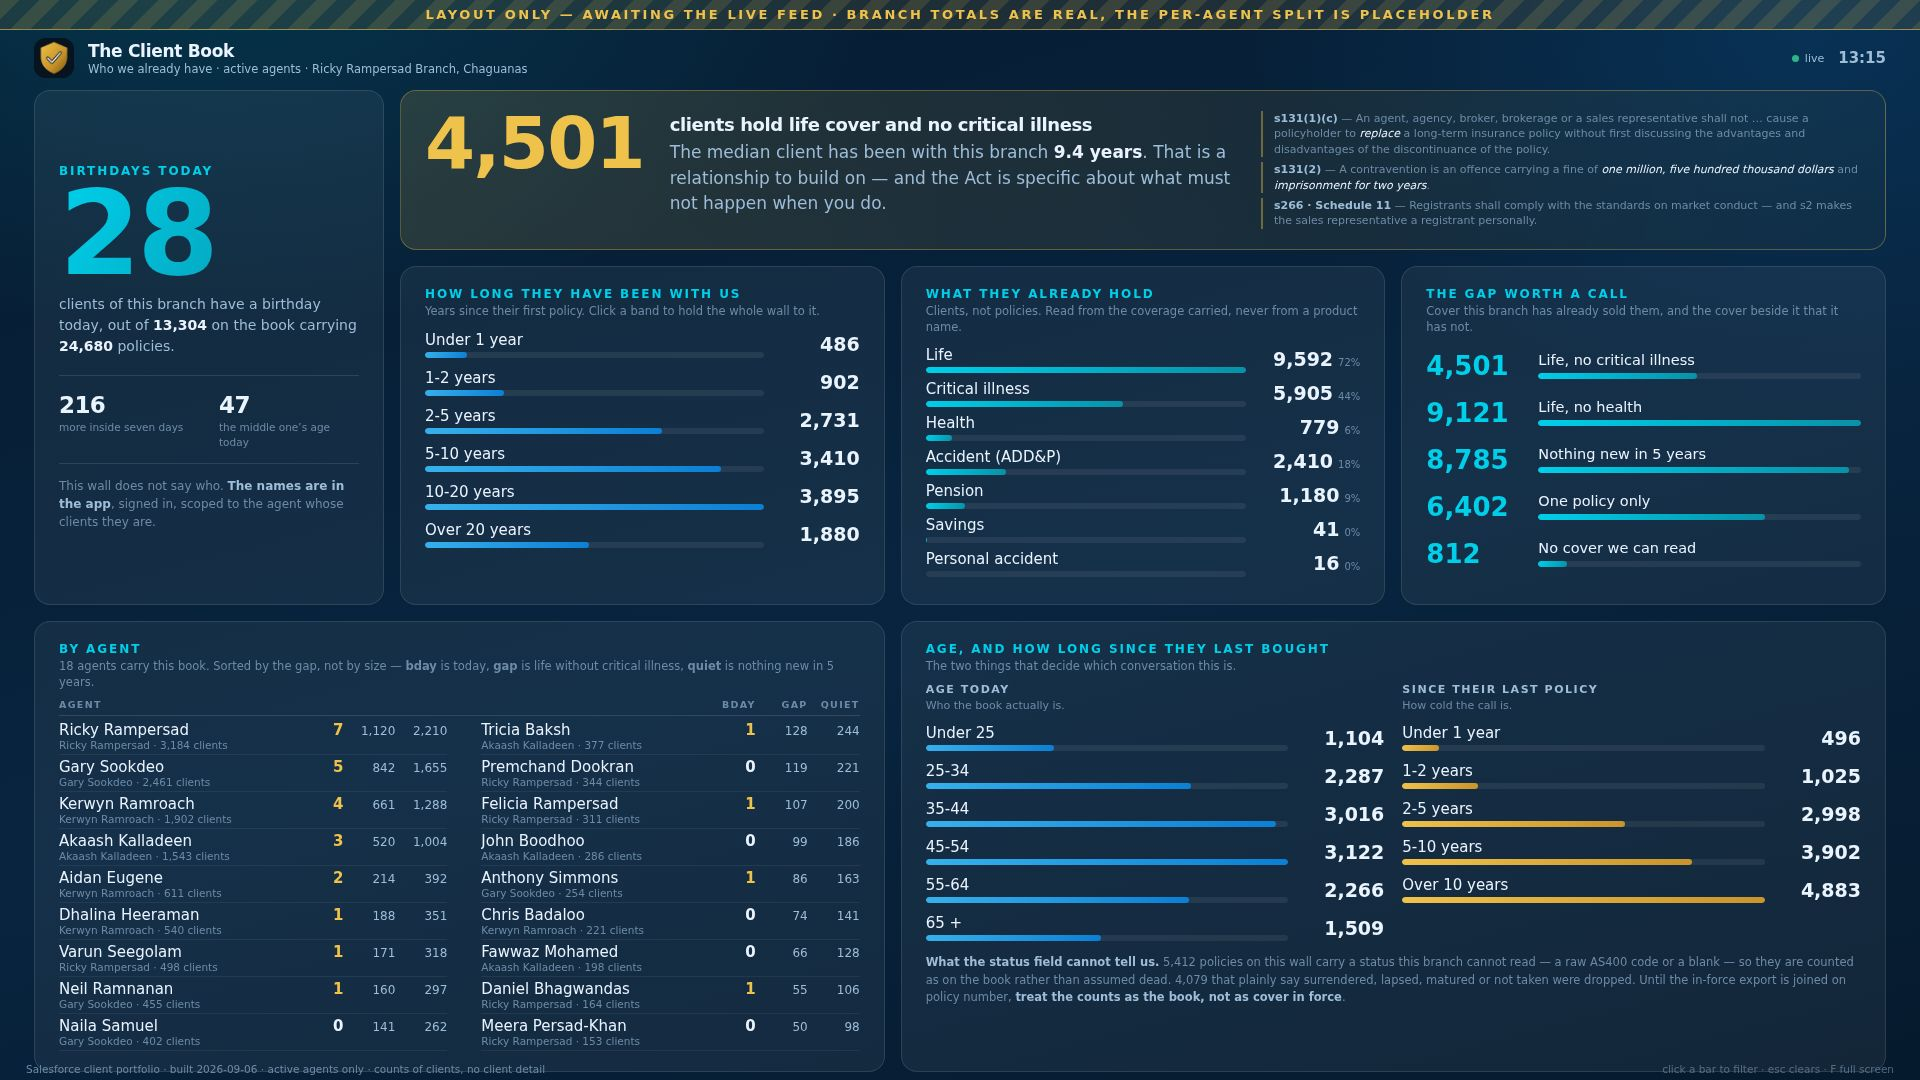
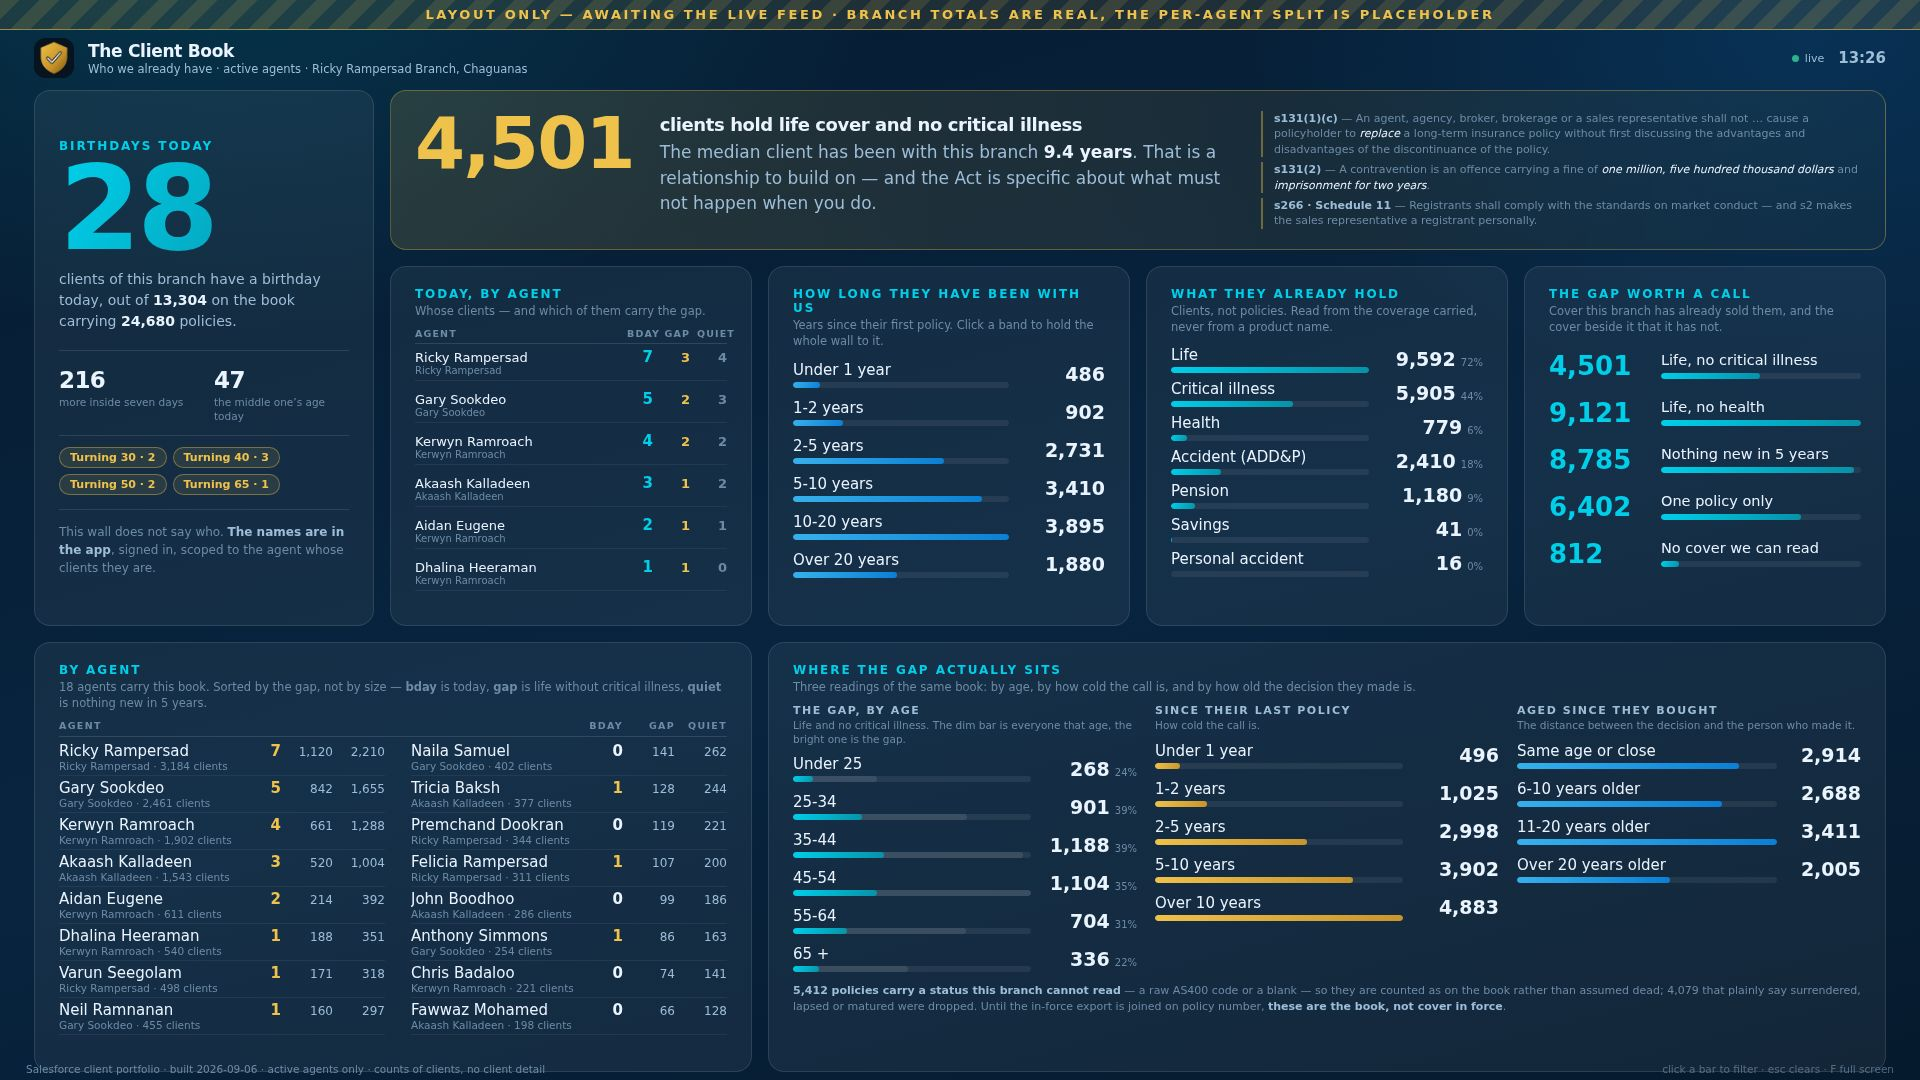
Put the birthdays at the top, by client and by agent, and go deeper
Confirmed: it is the birth date, and the wall now leads with it.

BY CLIENT AND BY AGENT, ON THE SAME ROW. The hero is how many clients have a
birthday today, with the milestone ages beside it — turning 30, 40, 50, 65,
which are advice triggers rather than greetings. The age comes from the birth
year, not Current_Age__c, which is ambiguous on the day itself. Next to it a new
panel gives the same thing by agent: whose clients, how many of those already
carry the life-without-critical-illness gap, and how many have bought nothing in
five years. A birthday on its own is a greeting. A birthday beside a gap is a
conversation, and that is why the three numbers sit on one row.

THREE NEW READINGS OF THE SAME BOOK, in the bottom right.

The gap, by age — where the 4,501 actually sit. The dim bar is everyone in that
age band and the bright one is the gap, because 900 out of 3,000 and 900 out of
1,100 are not the same finding and a bare count cannot tell them apart.

Since their last policy — how cold the call is.

Aged since they bought — the distance between the decision and the person who
made it, from Current_Age__c minus the Issue_Age__c on their FIRST policy. This
is the least obvious of the three and the most useful: a client who took cover
at twenty eight and is fifty five today is carrying a twenty seven year old
decision, and nothing else in the portfolio says so. Issue_Age__c is on 76% of
rows, which is what makes it possible. The age has to travel with the first
[…]

diff --git a/intelligence/wall/book.html b/intelligence/wall/book.html
@@ -68,8 +68,12 @@
   #chip span{width:19px;height:19px;border-radius:50%;background:rgba(255,255,255,.16);
     display:grid;place-items:center;font-size:12px;line-height:1}
 
-  main{display:grid;grid-template-columns:300px 1fr 1fr 1fr;
-    grid-template-rows:auto 1fr auto;gap:13px;padding:0 26px 20px;height:calc(100vh - 66px)}
+  /* Five columns, not four. The fourth panel on row two is today's birthdays
+     broken out by agent, and that is the one somebody acts on before lunch —
+     it does not belong folded into a footnote at the bottom of the screen. */
+  main{display:grid;grid-template-columns:290px 1fr 1fr 1fr 1fr;
+    grid-template-rows:auto minmax(330px,1fr) minmax(0,430px);
+    gap:13px;padding:0 26px 20px;height:calc(100vh - 66px)}
   .card{background:var(--card);border:1px solid var(--line);border-radius:var(--r);
     padding:16px 18px;min-height:0;display:flex;flex-direction:column}
   .card h3{margin:0 0 2px;font:700 12px var(--font-b);letter-spacing:.16em;
@@ -87,7 +91,7 @@
   .hero .split .v{font-family:var(--font-d);font-weight:800;font-size:23px;letter-spacing:-.6px}
   .hero .split .k{font-size:10.5px;color:var(--faint);margin-top:2px;line-height:1.35}
 
-  .law{grid-column:2/5;flex-direction:row;align-items:center;gap:26px;
+  .law{grid-column:2/6;flex-direction:row;align-items:center;gap:26px;
     background:linear-gradient(100deg,rgba(239,194,75,.14),rgba(239,194,75,.03));
     border-color:rgba(239,194,75,.32)}
   /* Kept deliberately short. It sits in the row above the three bar panels and
@@ -128,6 +132,9 @@
      the value column needs more room than the other three walls give it —
      "9,592 72%" was clipping to "9,592 7:". */
   #rCover .row{grid-template-columns:1fr 104px}
+  /* "1,188" and its share on ONE line. Wrapped, the suffix took every row in
+     this panel from 33px to 50 and the card overflowed by exactly that. */
+  #rGapAge .row{grid-template-columns:1fr 96px}
   #rTen .row,#rAge .row,#rLast .row{grid-template-columns:1fr 86px}
   /* Seven kinds of cover against six tenure bands, in a box sized for six:
      measured at 261px of rows in 240px of panel. The two smallest rows are the
@@ -164,7 +171,7 @@
     text-transform:uppercase;color:var(--dim)}
   .two .sub{font-size:11px;color:var(--faint);margin:0 0 8px;line-height:1.4}
 
-  .hist{grid-column:3/5}
+  .hist{grid-column:3/6}
   .sgrid{display:grid;grid-template-columns:repeat(3,1fr);gap:14px;margin-bottom:12px}
   .sgrid .v{font-family:var(--font-d);font-weight:800;font-size:30px;letter-spacing:-1px;line-height:1}
   .sgrid .k{font-size:10.5px;color:var(--faint);margin-top:4px;line-height:1.35}
@@ -176,7 +183,7 @@
   .hint{position:fixed;right:26px;bottom:5px;font-size:10.5px;color:var(--faint);opacity:.7}
 
   @media (min-width:1700px){
-    main{grid-template-columns:350px 1fr 1fr 1fr;gap:16px;padding:0 34px 24px}
+    main{grid-template-columns:340px 1fr 1fr 1fr 1fr;gap:16px;padding:0 34px 24px}
     .hero .big{font-size:118px} .card{padding:20px 24px}
     .row .lbl{font-size:15px} .row .val{font-size:19px} .arow{font-size:15px}
     .law .n{font-size:72px} .law .txt{font-size:17px} .sgrid .v{font-size:38px}
@@ -186,6 +193,7 @@
     body{overflow:auto} main{grid-template-columns:1fr 1fr;height:auto}
     .hero{grid-row:auto} .law{grid-column:1/3;flex-wrap:wrap}
     .agents,.hist{grid-column:1/3} .alist{grid-auto-flow:row;grid-template-rows:none}
+    .three{grid-template-columns:1fr}
   }
   /* Four columns here, not three: this wall's agent row carries a birthday
      count, a gap count and a quiet count, and unlabelled numbers in a row are
@@ -199,7 +207,47 @@
   /* Two columns of nine, not three of six. At three the name column was 150px
      and every agent past "Premchand" truncated — a wall that abbreviates the
      names on it is not naming anybody. */
-  .alist{grid-template-rows:repeat(9,auto);gap:0 34px}
+  /* Eight rows a column, not nine. The bottom row's card lost 90px when the
+     three-up went in beside it, and the ninth name was being cut in half —
+     which is the one thing a wall that names people must never do. */
+  .alist{grid-template-rows:repeat(8,auto);gap:0 26px}
+
+  .three{display:grid;grid-template-columns:1fr 1fr 1fr;gap:18px;flex:1;min-height:0}
+  .three > div{display:flex;flex-direction:column;min-height:0}
+  .three h4{margin:0 0 2px;font:700 11px var(--font-b);letter-spacing:.14em;
+    text-transform:uppercase;color:var(--dim)}
+  .three .sub{font-size:10.5px;color:var(--faint);margin:0 0 6px;line-height:1.3}
+  .hist .note{margin-top:8px;font-size:11px;line-height:1.45}
+
+  /* TODAY, BY AGENT. Three numbers per row and all three are a reason to pick
+     up the phone: whose client, how many of those already carry the gap, and
+     how many have bought nothing in years. A birthday on its own is a greeting;
+     a birthday next to a gap is a conversation. */
+  .bday .brow{display:grid;grid-template-columns:1fr 26px 30px 30px;align-items:baseline;
+    gap:7px;padding:4px 0;border-bottom:1px solid rgba(255,255,255,.06);font-size:13px}
+  .bday .brow .nm{white-space:nowrap;overflow:hidden;text-overflow:ellipsis}
+  .bday .brow .nm em{font-style:normal;font-size:10px;color:var(--faint);display:block}
+  .bday .brow .v{font-family:var(--font-d);font-weight:700;text-align:right;
+    font-variant-numeric:tabular-nums}
+  .bday .brow .v.n{color:var(--teal);font-size:15px}
+  .bday .brow .v.g{color:var(--gold)}
+  .bday .brow .v.q{color:var(--faint)}
+  .bday .bhead{display:grid;grid-template-columns:1fr 26px 30px 30px;gap:7px;
+    font:700 9.5px var(--font-b);letter-spacing:.12em;text-transform:uppercase;
+    color:var(--faint);padding-bottom:4px;border-bottom:1px solid rgba(255,255,255,.12)}
+  .bday .bhead div+div{text-align:right}
+  .hero .miles{margin-top:12px;padding-top:11px;border-top:1px solid var(--line);
+    display:flex;flex-wrap:wrap;gap:6px}
+  .hero .mile{font:700 11px var(--font-b);color:var(--gold);
+    border:1px solid rgba(239,194,75,.4);background:rgba(239,194,75,.10);
+    border-radius:999px;padding:3px 10px}
+  .hero .miles:empty{display:none}
+  .bday .none{font-size:12px;color:var(--faint);line-height:1.5;margin-top:4px}
+
+  /* a bar with a ghost behind it — the gap against the whole band it sits in */
+  .row .track i.ghost{background:rgba(255,255,255,.10)}
+  .row .track.stack{position:relative}
+  .row .track.stack i.fg{position:absolute;left:0;top:0}
 
   /* THE GAP PANEL IS THE POINT OF THE WALL, so its rows are bigger than the
      others and the count leads rather than trails. Every other panel on every
@@ -242,6 +290,7 @@
       <div><div class="v" id="heroWeek">&mdash;</div><div class="k">more inside seven days</div></div>
       <div><div class="v" id="heroAge">&mdash;</div><div class="k">the middle one’s age today</div></div>
     </div>
+    <div class="miles" id="bMiles"></div>
     <div class="who" id="heroWho"></div>
   </section>
 
@@ -253,6 +302,11 @@
     </div>
     <div class="acts" id="lawActs"></div>
   </section>
+
+  <section class="card bday"><h3>Today, by agent</h3>
+    <p class="cap">Whose clients &mdash; and which of them carry the gap.</p>
+    <div class="bhead"><div>Agent</div><div>Bday</div><div>Gap</div><div>Quiet</div></div>
+    <div class="rows" id="bList"></div></section>
 
   <section class="card"><h3>How long they have been with us</h3>
     <p class="cap">Years since their first policy. Click a band to hold the whole wall to it.</p>
@@ -271,8 +325,9 @@
     <div class="ahead"><div>Agent</div><div>Bday</div><div>Gap</div><div>Quiet</div></div>
     <div class="alist" id="aList"></div></section>
 
-  <section class="card hist"><h3>Age, and how long since they last bought</h3>
-    <p class="cap">The two things that decide which conversation this is.</p>
+  <section class="card hist"><h3>Where the gap actually sits</h3>
+    <p class="cap">Three readings of the same book: by age, by how cold the call is,
+      and by how old the decision they made is.</p>
     <div id="histBody"></div></section>
 </main>
 
@@ -341,6 +396,30 @@ function bars(host,list,dim,tone,pct){
   });
 }
 
+/* A bar drawn inside a ghost of the band it belongs to. A count on its own says
+   how many; a count against its own band says whether that is most of them. */
+function ghosts(host,list){
+  if(!host) return;
+  var max=0; list.forEach(function(x){ if((x.of||x.n)>max) max=x.of||x.n; });
+  host.innerHTML=list.map(function(x){
+    var sel=FILTER&&FILTER.dim==="gapage"&&FILTER.key===x.k;
+    var share=x.of?Math.round(x.n/x.of*100):0;
+    return '<div class="row'+(sel?' sel':'')+(x.n?'':' zero')+'"'
+      + (x.n?' data-dim="gapage" data-key="'+esc(x.k)+'"':'')+'>'
+      + '<div><div class="lbl">'+esc(x.k)+'</div>'
+      + '<div class="track stack"><i class="ghost" style="width:'
+      + (max?(x.of||x.n)/max*100:0).toFixed(1)+'%"></i>'
+      + '<i class="fg teal" style="width:'+(max?x.n/max*100:0).toFixed(1)+'%"></i></div></div>'
+      + '<div class="val">'+n(x.n)+(x.of?'<small>'+share+'%</small>':'')+'</div></div>';
+  }).join("");
+  Array.prototype.forEach.call(host.querySelectorAll(".row[data-dim]"),function(el){
+    el.onclick=function(){
+      if(FILTER&&FILTER.dim===el.dataset.dim&&FILTER.key===el.dataset.key) return clearFilter();
+      FILTER={dim:el.dataset.dim,key:el.dataset.key}; paint();
+    };
+  });
+}
+
 /* s131 is the section that governs this wall, and it is the sharpest one in the
    Act for a branch that is about to go cross-selling: it is not about failing
    to sell, it is about what happens when a sale REPLACES cover the client
@@ -376,7 +455,7 @@ function paint(){
       + 'conversation starts from what they hold.';
     $("#lawActs").innerHTML=ACTS.map(function(a){
       return '<div class="act"><b>'+a[0]+'</b> &mdash; '+a[1]+'</div>'; }).join("");
-    ["#rTen","#rCover","#rGap","#aList"].forEach(function(s){ $(s).innerHTML=""; });
+    ["#rTen","#rCover","#rGap","#aList","#bList","#bMiles"].forEach(function(s){ $(s).innerHTML=""; });
     $("#agentCap").textContent="";
     $("#histBody").innerHTML='<p class="note">Set the Salesforce credentials in '
       + '<b>SalesforceSync.gs</b>, deploy the script, and paste the <b>/exec</b> URL into '
@@ -409,11 +488,28 @@ function paint(){
   $("#lawActs").innerHTML=ACTS.map(function(a){
     return '<div class="act"><b>'+a[0]+'</b> &mdash; '+a[1]+'</div>'; }).join("");
 
+  var BA=(D.birthdays&&D.birthdays.byAgent)||[];
+  /* Six, not nine: the panel is a morning list, and an agent below the sixth
+     line on a screen across the room is not being read anyway. The full column
+     is in the by-agent table underneath. */
+  $("#bList").innerHTML = BA.length ? BA.slice(0,6).map(function(a){
+      return '<div class="brow">'
+        + '<div class="nm">'+esc(a.k)+'<em>'+esc(a.unit||"")+'</em></div>'
+        + '<div class="v n">'+n(a.n)+'</div>'
+        + '<div class="v g">'+n(a.gap)+'</div>'
+        + '<div class="v q">'+n(a.quiet)+'</div></div>'; }).join("")
+    : '<p class="none">Nobody on the branch book has a birthday today. '
+      + n((D.birthdays||{}).week)+' do inside the next seven days.</p>';
+  var MI=(D.birthdays&&D.birthdays.milestones)||[];
+  $("#bMiles").innerHTML = MI.length
+    ? MI.map(function(m){ return '<span class="mile">'+esc(m.k)+' &middot; '+n(m.n)+'</span>'; }).join("")
+    : '';
+
   bars($("#rTen"),   D.tenure||[], "tenure", "accent");
   bars($("#rCover"), D.cover||[],  "cover",  "teal", true);
   bars($("#rGap"),   D.gaps||[],   "gap",    "teal");
 
-  var ag=(D.byAgent||[]).slice(0,18), maxGap=0;
+  var ag=(D.byAgent||[]).slice(0,16), maxGap=0;
   ag.forEach(function(a){ if(a.gap>maxGap) maxGap=a.gap; });
   $("#agentCap").innerHTML=n((D.byAgent||[]).length)+' agents carry this book. '
     + 'Sorted by the gap, not by size — <b>bday</b> is today, <b>gap</b> is life without '
@@ -428,20 +524,26 @@ function paint(){
 
   var Q=D.quality||{};
   $("#histBody").innerHTML=
-      '<div class="two">'
-    + '<div><h4>Age today</h4><p class="sub">Who the book actually is.</p>'
-    +   '<div class="rows" id="rAge"></div></div>'
+      '<div class="three">'
+    + '<div><h4>The gap, by age</h4><p class="sub">Life and no critical illness. The dim '
+    +   'bar is everyone that age, the bright one is the gap.</p>'
+    +   '<div class="rows" id="rGapAge"></div></div>'
     + '<div><h4>Since their last policy</h4><p class="sub">How cold the call is.</p>'
     +   '<div class="rows" id="rLast"></div></div>'
+    + '<div><h4>Aged since they bought</h4>'
+    +   '<p class="sub">The distance between the decision and the person who made it.</p>'
+    +   '<div class="rows" id="rAged"></div></div>'
     + '</div>'
-    + '<p class="note"><b>What the status field cannot tell us.</b> '
-    + n(Q.unknownStatus)+' policies on this wall carry a status this branch cannot read '
-    + '— a raw AS400 code or a blank — so they are counted as on the book rather '
-    + 'than assumed dead. '+n(Q.deadDropped)+' that plainly say surrendered, lapsed, matured '
-    + 'or not taken were dropped. Until the in-force export is joined on policy number, '
-    + '<b>treat the counts as the book, not as cover in force</b>.</p>';
-  bars($("#rAge"),  D.ages||[],    "age",  "accent");
-  bars($("#rLast"), D.lastBuy||[], "last", "gold");
+    + '<p class="note"><b>'+n(Q.unknownStatus)+' policies carry a status this branch '
+    + 'cannot read</b> — a raw AS400 code or a blank — so they are counted as on the book '
+    + 'rather than assumed dead; '+n(Q.deadDropped)+' that plainly say surrendered, lapsed '
+    + 'or matured were dropped. Until the in-force export is joined on policy number, '
+    + '<b>these are the book, not cover in force</b>.</p>';
+  /* The gap bar carries a ghost of its whole age band behind it, because 900 in
+     a band of 3,000 and 900 in a band of 1,100 are not the same finding. */
+  ghosts($("#rGapAge"), D.gapByAge||[]);
+  bars($("#rLast"), D.lastBuy||[], "last",  "gold");
+  bars($("#rAged"), D.aged||[],    "aged",  "accent");
 }
 
 function tick(){ $("#clock").textContent=new Date().toLocaleTimeString("en-GB",

diff --git a/INTELLIGENCE-SETUP.md b/INTELLIGENCE-SETUP.md
@@ -946,6 +946,36 @@ Which is the argument for the wall rather than against it: the conversation has
 to start from what the client already holds, and this is the screen that shows
 it.
 
+#### Birthdays are the top of the wall, by client and by agent
+
+The hero is how many clients have a birthday **today**, with the milestone ages
+beside it — turning 30, 40, 50, 65 are advice triggers, not greetings. The age
+comes from the birth year rather than `Current_Age__c`, which is ambiguous on
+the day itself.
+
+Next to it, **today by agent**: whose clients they are, how many of those
+already carry the life-without-critical-illness gap, and how many have bought
+nothing in five years. A birthday on its own is a greeting; a birthday beside a
+gap is a conversation, and that is the whole reason the three numbers sit on one
+row.
+
+#### Three readings of the same book
+
+| Panel | What it answers |
+|---|---|
+| **The gap, by age** | Where the 4,501 actually sit. The dim bar is everyone that age, the bright one is the gap, so 900 in a band of 3,000 does not read the same as 900 in a band of 1,100. |
+| **Since their last policy** | How cold the call is. |
+| **Aged since they bought** | The distance between the decision and the person who made it — `Current_Age__c` minus the `Issue_Age__c` on their *first* policy. |
+
+That last one is the least obvious and the most useful. A client who took cover
+at twenty eight and is fifty five today is carrying a twenty seven year old
+decision: different income, different dependants, different everything.
+`Issue_Age__c` is on **76%** of rows, which is what makes it possible.
+
+The age has to travel with the first policy rather than being the smallest issue
+age on the book — otherwise a rider written years later on a different life gets
+picked up as the start of the relationship.
+
 #### One property
 
 | Property | Default | What it does |
